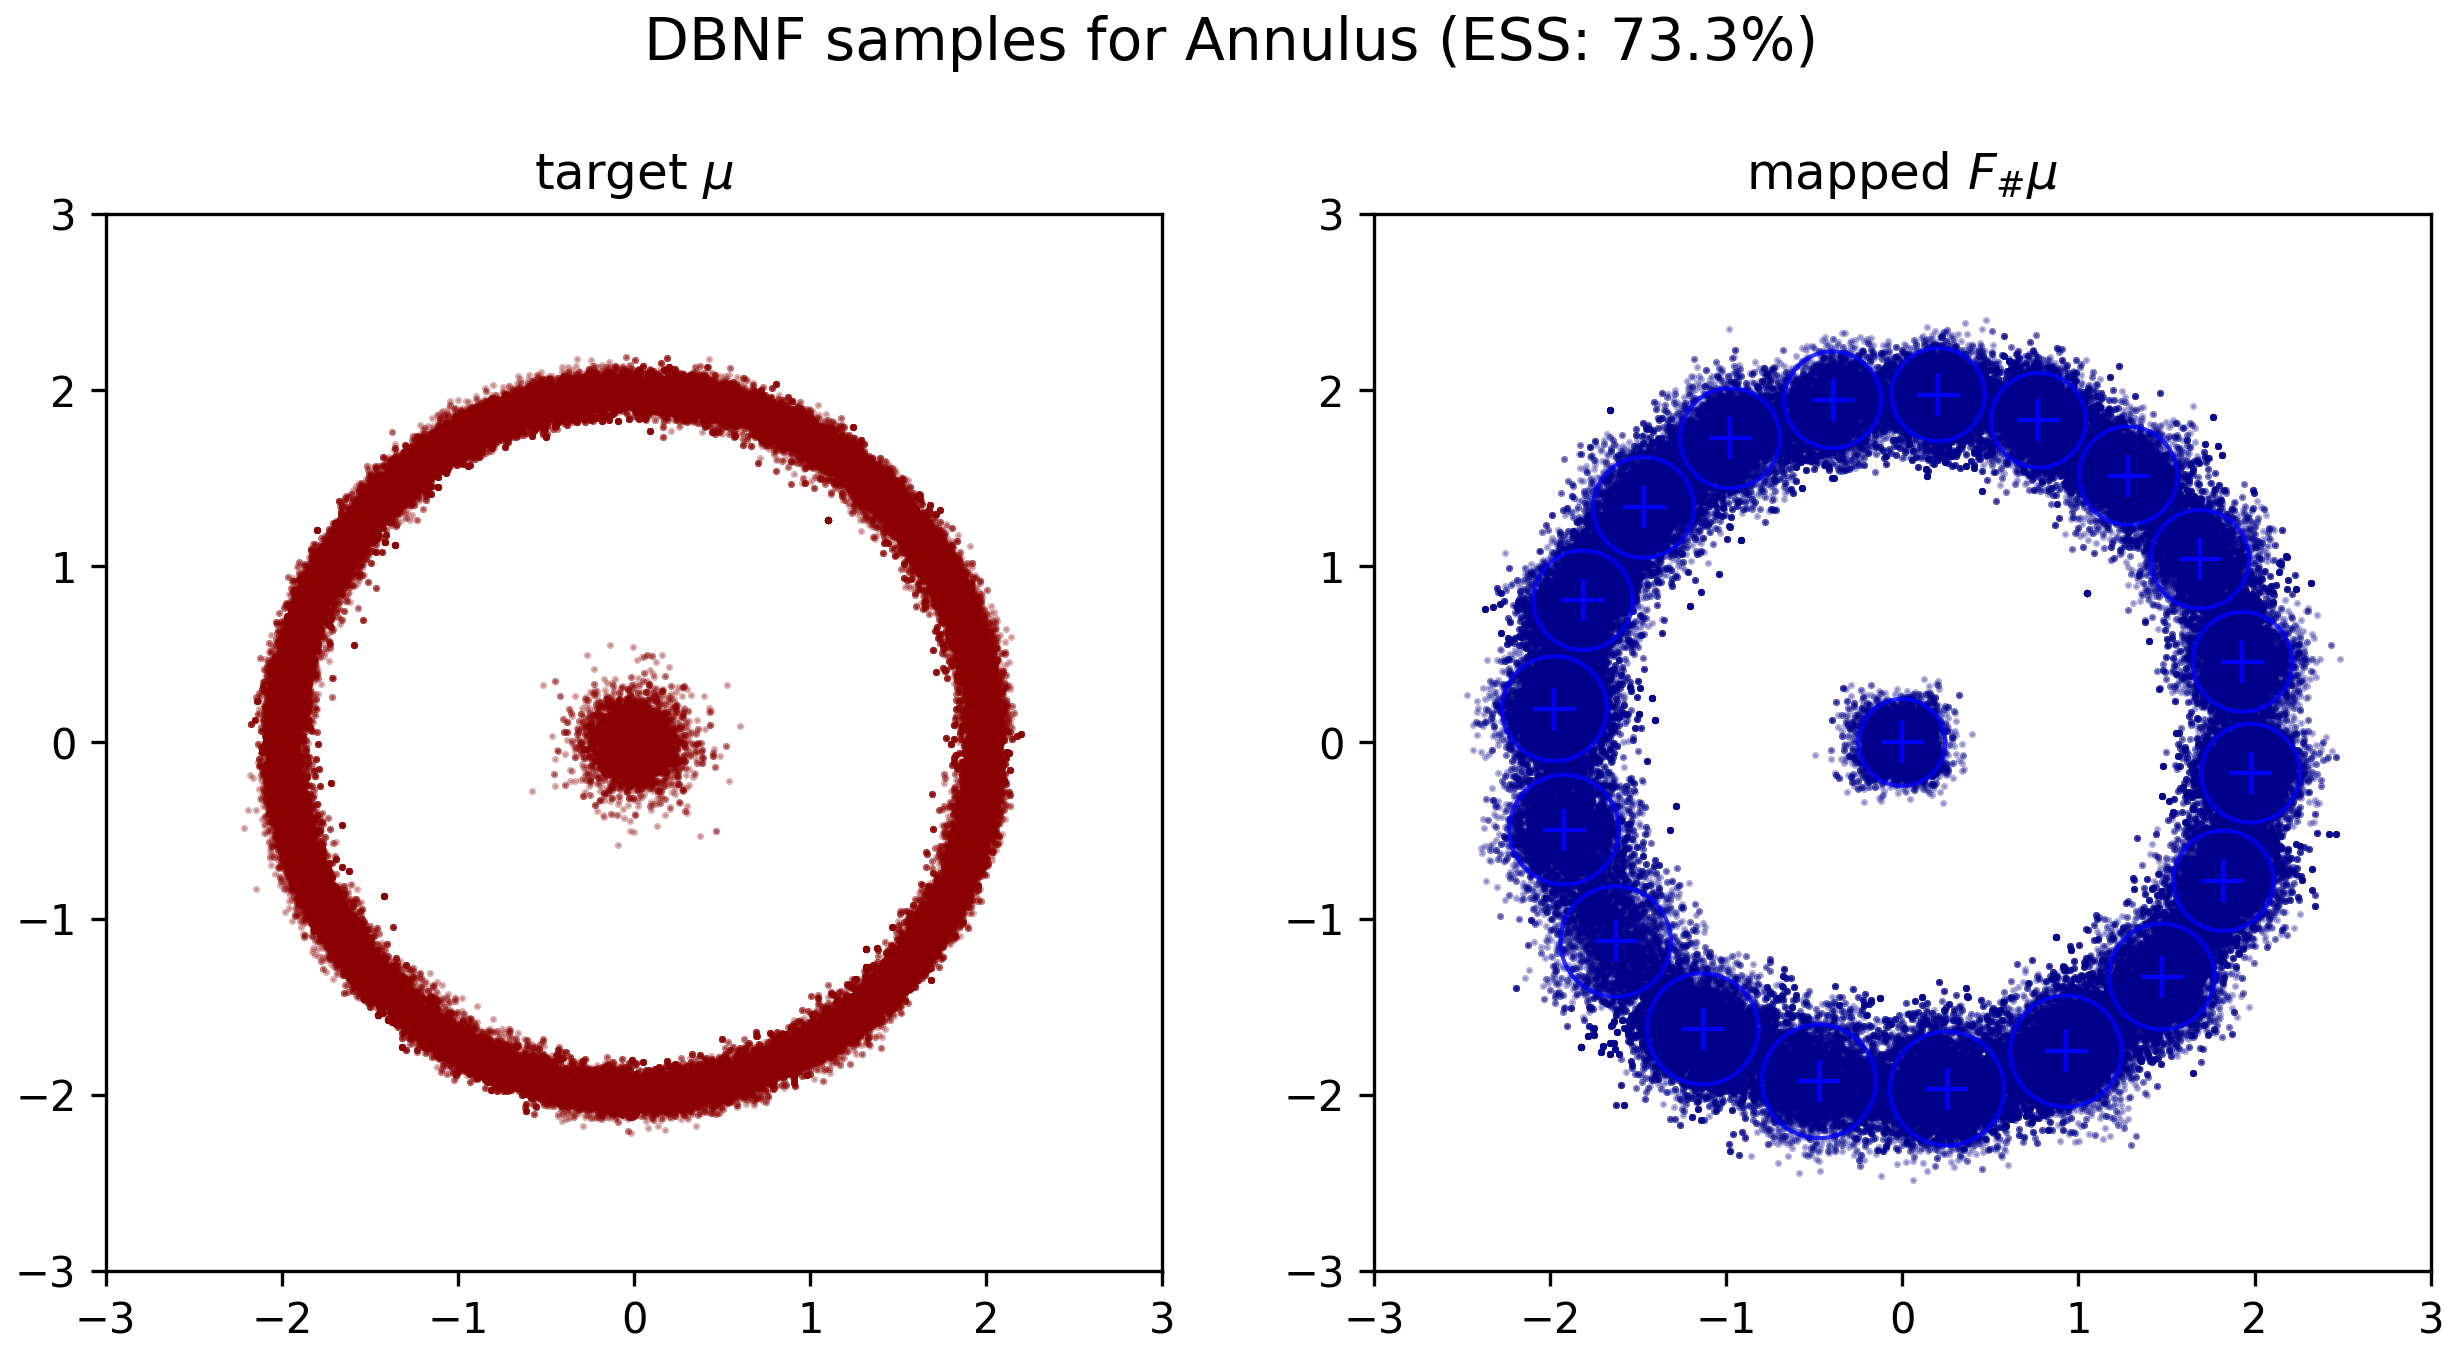
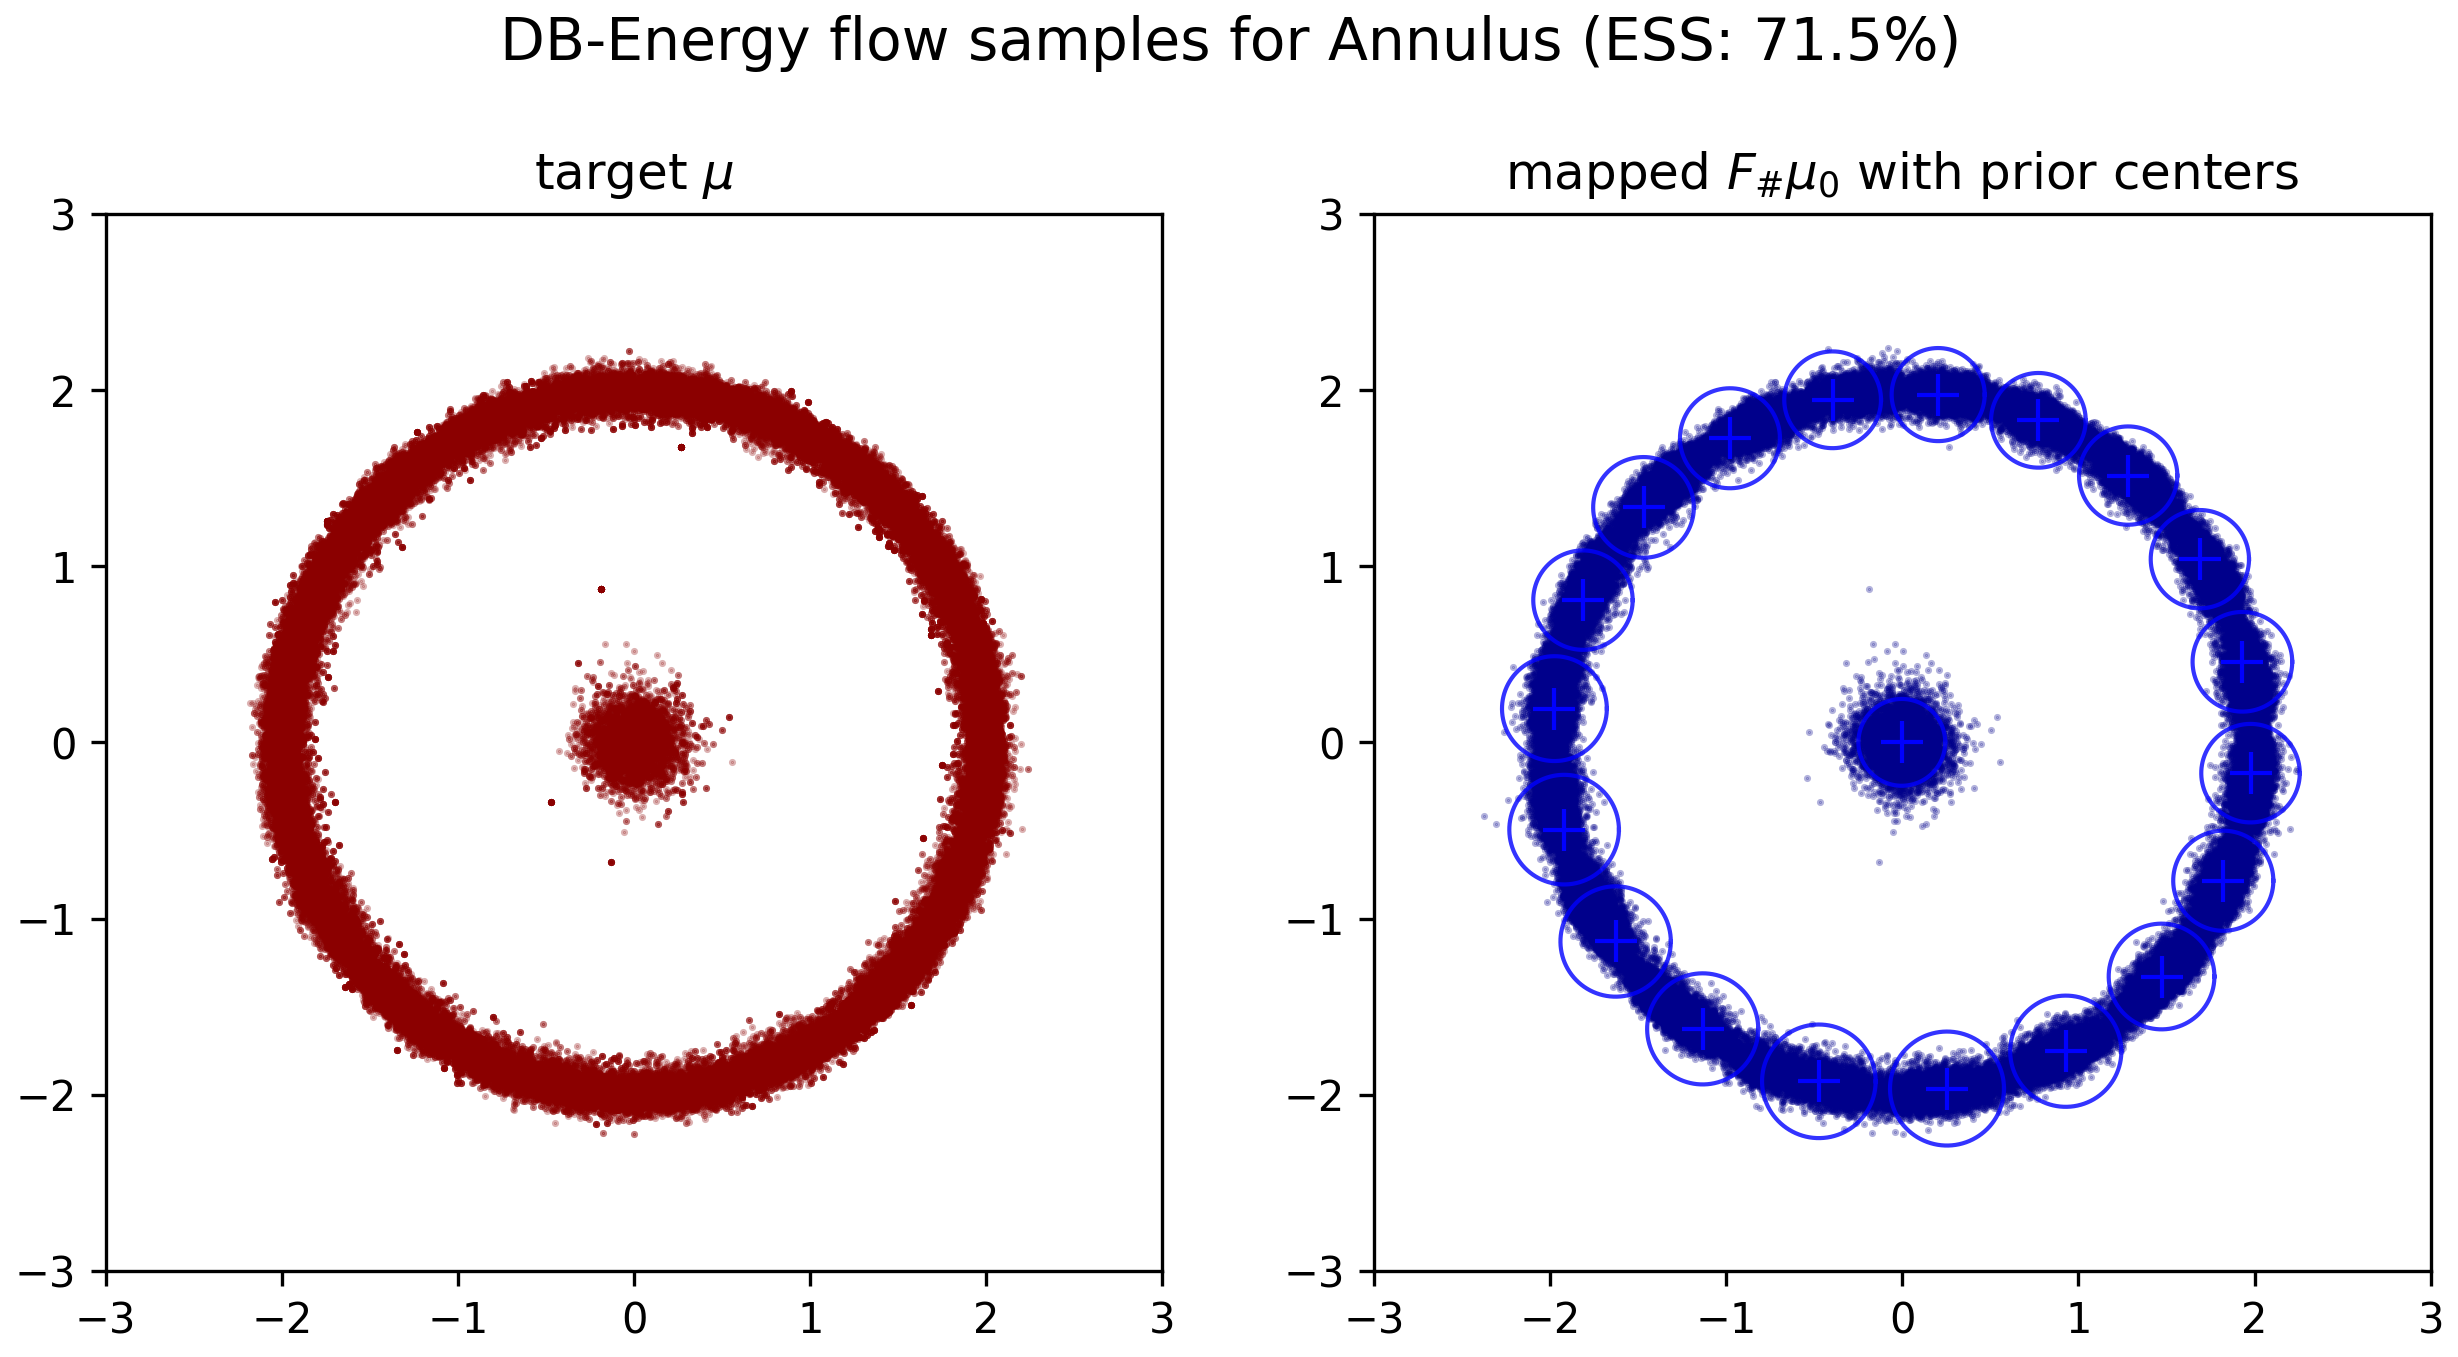
Edit main.tex & Update codes

diff --git a/Codes/2D_GMM_DB_Energy/plot_result.py b/Codes/2D_GMM_DB_Energy/plot_result.py
@@ -4,22 +4,15 @@ import matplotlib.pyplot as plt
 from utilities import *
 from parameters import *
 
-# load inference data
+# load inference data: samples are x = F(y), y ~ mu_0
 data    = torch.load(f"data_{name}.pt", weights_only=False)
-samples = data['samples']   # [N, 2]  x ~ approx mu
-weights = data['weights']   # [N]     normalized importance weights
+samples = data['samples']   # [N, 2]  x = F(y) ~ F_# mu_0
+weights = data['weights']   # [N]     normalized importance weights toward mu
 ess     = data['ess']
 
-# load trained flow to compute T_# mu = F(x)
-flow.load_state_dict(torch.load(f"flow_{name}.pt", weights_only=True))
-flow.eval()
-with torch.no_grad():
-    y, _ = flow.t().call_and_ladj(samples)  # [N, 2]  F(x)
-
-# resample with importance weights so scatter reflects true density
+# importance-resample x to recover target mu
 log_w = torch.log(weights + 1e-30)
 x_rs  = resample(samples, log_w)
-y_rs  = resample(y,       log_w)
 
 # plot
 bound = target.BOUND
@@ -30,7 +23,7 @@ axes[0].set_title(r'target $\mu$')
 axes[0].set_xlim(-bound, bound); axes[0].set_ylim(-bound, bound)
 axes[0].set_aspect('equal')
 
-axes[1].scatter(y_rs[:, 0].numpy(), y_rs[:, 1].numpy(), s=0.5, c='darkblue', alpha=0.3)
+axes[1].scatter(samples[:, 0].numpy(), samples[:, 1].numpy(), s=0.5, c='darkblue', alpha=0.3)
 μ_np = gmm.μ_list.numpy()
 σ_np = gmm.σ_list.numpy()
 θ = np.linspace(0, 2 * np.pi, 200)
@@ -39,10 +32,10 @@ for k in range(μ_np.shape[0]):
                  μ_np[k, 1] + 2 * σ_np[k] * np.sin(θ),
                  'b-', lw=1.0, alpha=0.8)
     axes[1].plot(μ_np[k, 0], μ_np[k, 1], 'b+', markersize=10)
-axes[1].set_title(r'mapped $F_{\#}\mu$')
+axes[1].set_title(r'mapped $F_{\#}\mu_0$ with prior centers')
 axes[1].set_xlim(-bound, bound); axes[1].set_ylim(-bound, bound)
 axes[1].set_aspect('equal')
 
-fig.suptitle(f'DBNF samples for {target} (ESS: {ess:.1%})', fontsize=14)
+fig.suptitle(f'DB-Energy flow samples for {target} (ESS: {ess:.1%})', fontsize=14)
 plt.savefig(f'result_{name}.png', dpi=300, bbox_inches='tight', pad_inches=0.05)
 print(f"Saved result_{name}.png")

diff --git a/Codes/2D_GMM_DB_Energy/train_flow.py b/Codes/2D_GMM_DB_Energy/train_flow.py
@@ -4,25 +4,20 @@ from parameters import *
 
 torch.manual_seed(0)
 
-# initialize training
-samples = gmm_frozen.samples(N=N_TRAIN)
 optimizer = torch.optim.AdamW(flow.parameters(), lr=LR)
 
 for epoch in range(EPOCH):
-    # select random batch
-    idx     = torch.randperm(N_TRAIN)[:BATCH]
-    x_batch = samples[idx].clone().requires_grad_(True)
+    # x ~ mu_0 (prior space); R_F(x) = U(F(x)) - U_0(x) - log|det J_F|
+    x_batch = gmm.samples(N=BATCH).requires_grad_(True)
+    grv     = gradient_ratio_v(source=target, target=gmm, x=x_batch, flow_t=flow.t())
+    loss    = grv.abs().mean()
 
-    # compute detailed balance loss
-    loss    = detailed_balance_loss(source=gmm, source_frozen=gmm_frozen, target=target, x=x_batch, flow_t=flow.t())
-
-    # gradient descent step
     optimizer.zero_grad()
     loss.backward()
     optimizer.step()
 
     if (epoch + 1) % 10 == 0:
-        print(f"  [TV]  Epoch {epoch+1}/{EPOCH}, Loss: {loss.item():.4e}")
+        print(f"  [DB-E]  Epoch {epoch+1}/{EPOCH}, Loss: {loss.item():.4e}")
 
 
 torch.save(flow.state_dict(), f"flow_{name}.pt")

diff --git a/Codes/2D_GMM_DB_Energy/inference.py b/Codes/2D_GMM_DB_Energy/inference.py
@@ -9,18 +9,13 @@ flow.eval()
 with torch.no_grad():
     flow_t = flow.t()
 
-    # draw y ~ mu_0 (source prior)
-    y = gmm.samples(N=N_VALID)  # [N, 2]
+    # direct importance sampling: y ~ mu_0, push forward x = F(y)
+    y = gmm.samples(N=N_VALID)                   # [N, 2]
+    x, ladj = flow_t.call_and_ladj(y)            # [N, 2], [N]
 
-    # x = F^{-1}(y)
-    x = flow_t.inv(y)
-    assert x is not None
+    # log w = log mu_0(y) - log F_# mu_0(x) + log mu(x)  =  gmm(y) + ladj - target(x)
+    log_weights = gmm(y) + ladj - target(x)      # [N]
 
-    # log-likelihood ratio R_F(x) = U_0(y) - U(x) - log|det J_F(x)|
-    _, ladj     = flow_t.call_and_ladj(x)
-    log_weights = gmm(y) - target(x) - ladj  # [N]
-
-    # effective sample size and normalized weights
     ess     = compute_ESS(log_weights)
     weights = torch.exp(log_weights - log_weights.max())
     weights = weights / weights.sum()

diff --git a/Codes/2D_GMM_DB_Energy/parameters.py b/Codes/2D_GMM_DB_Energy/parameters.py
@@ -7,7 +7,7 @@ from utilities import NSF
 BINS = 8 # number of bins for RQS transform
 HIDDEN_FEATURES = (64, 64) # hidden layer sizes
 TRANSFORMS = 4 # number of flow transforms
-LR = 2.5e-4 # learning rate
+LR = 1e-3 # learning rate
 BATCH = 4000 # batch size
 EPOCH = 400 # number of training epochs
 
